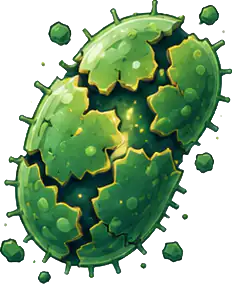
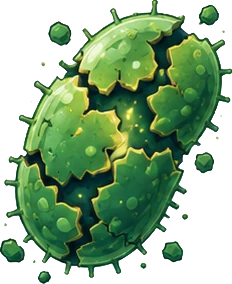
Keep tutorial hands visible and refresh hard-mode HUD

diff --git a/game.js b/game.js
@@ -19,7 +19,7 @@ const storyIntroCaption = document.getElementById("storyIntroCaption");
 const displayNotice = document.getElementById("displayNotice");
 const retryLoadingButton = document.getElementById("retryLoadingButton");
 const loadingStatus = document.getElementById("loadingStatus");
-const BUILD_VERSION = "20261020-39";
+const BUILD_VERSION = "20261020-40";
 const STORY_INTRO_FADE_MS = 260;
 const SIMULATION_STEP = 1 / 60;
 const MAX_FRAME_SECONDS = 0.25; // Discard long stalls equally for gameplay and its clocks.
@@ -154,6 +154,7 @@ const ASSETS = {
   bg6: "assets_webp/Bacteria_Background_6.webp",
   bg7: "assets_webp/Bacteria_Background_7.webp",
   bg8: "assets_webp/Bacteria_Background_8.webp",
+  clock: "assets_webp/clock.webp",
   flare: "assets_webp/flare.webp",
   noise: "assets_webp/noise.webp",
   stage0: "assets_webp/Stage_0.webp",
@@ -491,6 +492,9 @@ function launchGame(mode) {
   cellField = [];
   hardModeElapsed = 0;
   poppedBubbles.clear();
+  visualTutorial.key = null;
+  visualTutorial.age = 0;
+  visualTutorial.movementInputSeen = false;
   resetCycleState(50, 50, 0.65);
   camera.x=player.x-W/2; camera.y=player.y-H/2;
   backgroundFields.length = 0;
@@ -2108,11 +2112,12 @@ function drawHardModeHud() {
   const remaining = Math.max(0, HARD_MODE_DURATION_MS - hardModeElapsed);
   const seconds = Math.ceil(remaining / 1000);
   const minutesText = `${Math.floor(seconds / 60)}:${String(seconds % 60).padStart(2, "0")}`;
-  const x = safeRight(310, SAFE_MARGIN);
+  const x = safeRight(240, SAFE_MARGIN);
   const y = safeY(120);
-  drawPanel(x, y, 310, 96, 0.52);
-  drawTextCentered(`Puntos: ${score}`, x + 155, y + 38, 24, "#ffdd69", "900");
-  drawTextCentered(`Tiempo: ${minutesText}`, x + 155, y + 72, 24, "#fff", "900");
+  drawImageCenter(img.bg7, x + 28, y + 32, 0.19, 0);
+  drawText(`${score}`, x + 65, y + 43, 36, "#ffdd69", "900");
+  drawImageCenter(img.clock, x + 28, y + 90, 0.09, 0);
+  drawText(minutesText, x + 65, y + 101, 36, "#fff", "900");
 }
 
 function drawStageIcons(activeStage, stageName) {
@@ -3210,7 +3215,7 @@ function updateVisualTutorial(dt) {
 
 function drawVisualTutorial() {
   const cue = getTutorialCue();
-  if (!cue || dragItem || mouse.down || infectionPointerHeld()) return;
+  if (!cue) return;
   const age = visualTutorial.age;
   let p = cue.source, pressed = false, alpha = 1;
   if (cue.movement) {
@@ -3221,13 +3226,13 @@ function drawVisualTutorial() {
     const progress = smoothstep(.3,1.1,segment);
     p = { x: p.x+delta[0]*progress, y: p.y+delta[1]*progress };
     pressed = segment>.2 && segment<1.3;
-    alpha = segment>1.3 ? 1-smoothstep(1.3,1.6,segment) : 1;
+    alpha = segment>1.3 ? 1-0.22*smoothstep(1.3,1.6,segment) : 1;
   } else if (cue.drag) {
     const t = age%3.2;
     const progress = smoothstep(.6,2.2,t);
     p = { x: lerp(p.x,cue.target.x,progress), y: lerp(p.y,cue.target.y,progress) };
     pressed = t>.35 && t<2.45;
-    alpha = t>2.65 ? 1-smoothstep(2.65,3.2,t) : 1;
+    alpha = t>2.65 ? 1-0.22*smoothstep(2.65,3.2,t) : 1;
   } else {
     const t = age%(cue.hold ? 3 : .8);
     pressed = cue.hold ? t>.35 && t<2.6 : t>.18 && t<.5;

diff --git a/index.html b/index.html
@@ -6,7 +6,7 @@
     <title>Phage-Go!</title>
     <meta name="app-version" content="2026.10.20-38">
     <link rel="icon" href="data:,">
-    <link rel="stylesheet" href="style.css?v=20261020-39">
+    <link rel="stylesheet" href="style.css?v=20261020-40">
   </head>
   <body>
     <main id="app">
@@ -18,10 +18,10 @@
       <div id="loading"><span id="loadingStatus">Cargando imágenes…</span><button id="retryLoadingButton" class="hidden" type="button">Reintentar</button></div>
       <div id="menuButtons" class="menu-buttons">
         <button id="normalButton" class="menu-icon-button" type="button" disabled data-label="Fácil" aria-label="Modo fácil">
-          <img src="assets_webp/phage_easy.webp?v=20261020-39" alt="">
+          <img src="assets_webp/phage_easy.webp?v=20261020-40" alt="">
         </button>
         <button id="hardButton" class="menu-icon-button" type="button" disabled data-label="Difícil" aria-label="Modo difícil">
-          <img src="assets_webp/phage_hard.webp?v=20261020-39" alt="">
+          <img src="assets_webp/phage_hard.webp?v=20261020-40" alt="">
         </button>
       </div>
       <button id="restartButton" class="text-button hidden" type="button">Reiniciar</button>
@@ -55,12 +55,12 @@
       <div id="soundList"></div>
       <footer><button id="soundSave" type="button">Guardar y exportar JSON</button><p id="soundStatus" role="status"></p></footer>
     </dialog>
-    <script src="audio/catalog.js?v=20261020-39"></script>
-    <script src="audio/sound.js?v=20261020-39"></script>
-    <script src="world-shapes.js?v=20261020-39"></script>
-    <script src="world.js?v=20261020-39"></script>
-    <script src="enemies.js?v=20261020-39"></script>
-    <script src="controls.js?v=20261020-39"></script>
-    <script src="game.js?v=20261020-39"></script>
+    <script src="audio/catalog.js?v=20261020-40"></script>
+    <script src="audio/sound.js?v=20261020-40"></script>
+    <script src="world-shapes.js?v=20261020-40"></script>
+    <script src="world.js?v=20261020-40"></script>
+    <script src="enemies.js?v=20261020-40"></script>
+    <script src="controls.js?v=20261020-40"></script>
+    <script src="game.js?v=20261020-40"></script>
   </body>
 </html>

diff --git a/scripts/check_assets.py b/scripts/check_assets.py
@@ -40,6 +40,15 @@ for name in sorted(paths):
         assert len(base64.b64decode(shape['data'])) == shape['w'] * shape['h'], name
         shape_count += 1
 assert shape_count == len(shapes), 'Unused or missing collision shapes'
+for name, size in {
+    'Bacteria_Background_7.webp': (232, 284),
+    'clock.webp': (512, 512),
+}.items():
+    with Image.open(root / 'assets_webp' / name) as image:
+        assert image.format == 'WEBP' and image.mode == 'RGBA', name
+        assert image.size == size, name
+        alpha = image.getchannel('A')
+        assert alpha.getextrema()[0] == 0 and alpha.getbbox(), f'Invalid icon alpha: {name}'
 version = re.search(r'const BUILD_VERSION = "([^"]+)"', source)[1]
 html = (root / 'index.html').read_text()
 for script in ('game.js', 'world.js', 'enemies.js', 'controls.js', 'audio/sound.js', 'style.css'):

diff --git a/docs/tutorial-visual.md b/docs/tutorial-visual.md
@@ -29,4 +29,13 @@ Las ayudas son una capa de dibujo: no generan eventos, no arrastran objetos, no 
 
 - El tutorial de movimiento tiene prioridad sobre la infección cercana. En móvil no se oculta al tocar el joystick. Se marca aprendido solo después de que el jugador haya visto el ciclo de cuatro direcciones completo y haya movido el fago; el identificador v2 hace que aparezca incluso a usuarios cuyo guardado anterior la marcó accidentalmente como vista.
 - La última ilustración ahora se desvanece mientras la partida ya corre detrás. El primer fotograma del juego se dibuja antes de quitar la capa de presentación.
-- Todos los recursos de `index.html` usan la versión de caché `20261020-39`.
+- Todos los recursos de `index.html` usan la versión de caché `20261020-40`.
+
+## Persistencia de las manos y marcador de difícil — 2026-10-20
+
+- La mano ya no se oculta mientras se mantiene o se arrastra un elemento. Así permanece visible durante el gesto que está enseñando, también en pantallas táctiles.
+- Los ciclos de movimiento y arrastre conservan una opacidad mínima al cambiar de dirección o volver al origen, sin desaparecer entre gestos.
+- Al iniciar una partida se reinicia el ciclo visual de cualquier tutorial pendiente, sin borrar el progreso aprendido que se guarda localmente.
+- La prueba automatizada recorre movimiento, infección, inyección, ADN, nucleótidos, las tres uniones del fago y lisis tanto en escritorio como en móvil, con la entrada activa.
+- El marcador de difícil usa la bacteria rota y `clock.webp`, con números grandes y sin panel. Los originales y WebP conservan dimensiones y canal alfa.
+- Versión de caché: `20261020-40`.

diff --git a/CAMBIOS.md b/CAMBIOS.md
@@ -16,6 +16,15 @@ Verificación: 30 pruebas automatizadas; revisión visual en 1024×768 y 844×39
 Publicación: GitHub Pages desde `main` en https://maxdesigna7x.github.io/Phage_Go_Game/
 
 
+# Manos tutoriales y marcador de difícil — 20 de octubre de 2026
+
+- Las manos permanecen visibles durante toques y arrastres y durante todo el ciclo de animación. Cada tutorial pendiente reinicia su animación al comenzar una partida nueva.
+- El marcador de difícil muestra únicamente la bacteria rota, el reloj y sus valores en texto grande; se elimina la tarjeta de fondo.
+- `clock.png` y `Bacteria_Background_7.png` se distribuyen como WebP RGBA con dimensiones y alfa conservados.
+- Verificación: cobertura automatizada de los diez gestos en móvil y escritorio, más validación de las dimensiones y transparencia de ambos iconos.
+- Versión de `game.js` y referencias de recursos actualizadas a `20261020-40`.
+
+
 # Tutorial visual — 20 de octubre de 2026
 
 - Punteros originales `pointing_pulse_on/off` convertidos a WebP con lienzo y alfa intactos.
